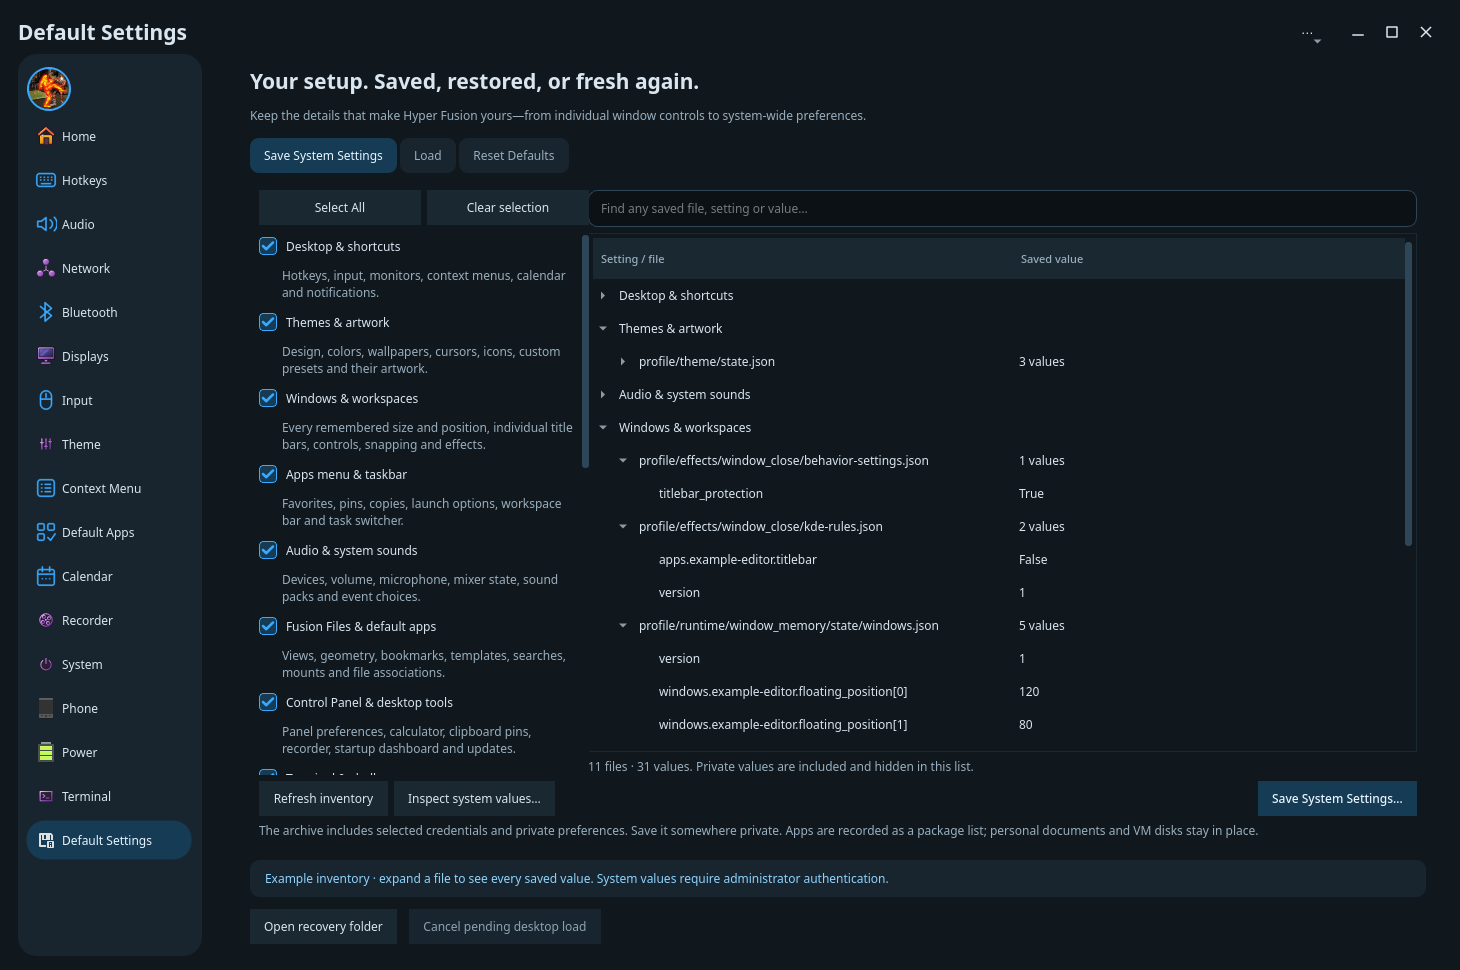
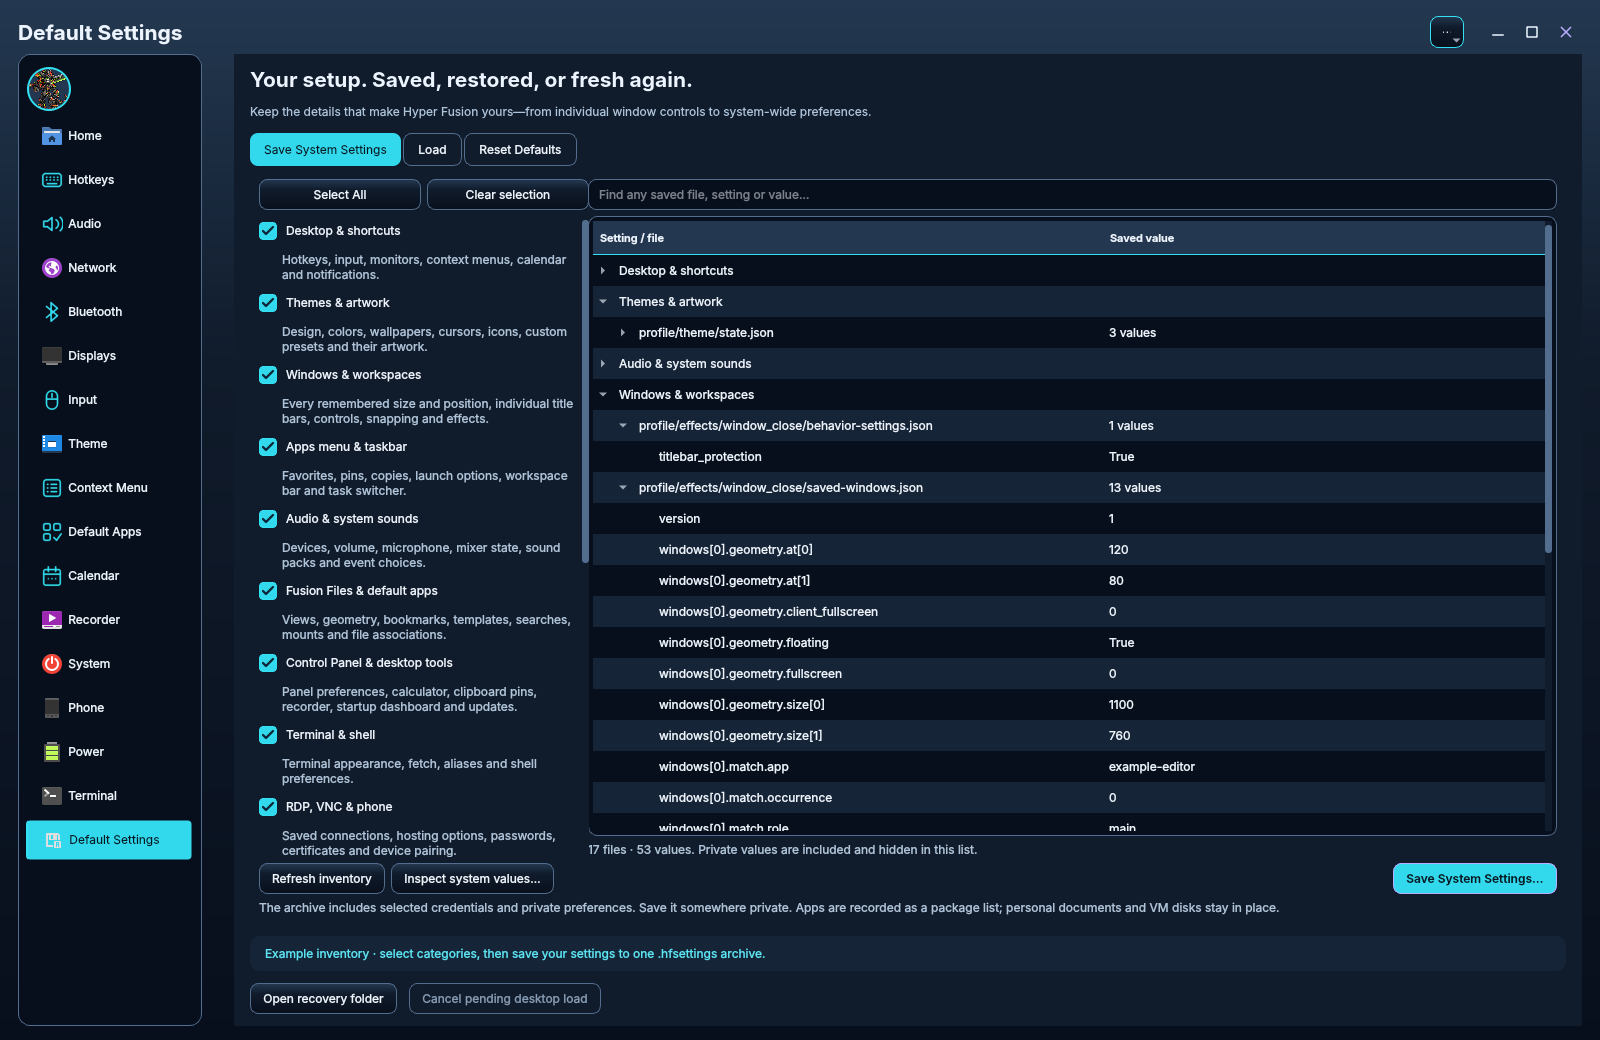
Showcase Default Settings with Save Load and Reset screenshots
Add a README showcase and gallery with native Polaris captures using example settings. Expand the settings guide with selective restore steps, all category coverage, the original-baseline requirement and explicit headless versus end-to-end verification status.

diff --git a/docs/DEFAULT_SETTINGS.md b/docs/DEFAULT_SETTINGS.md
@@ -3,17 +3,28 @@
 **Fusion Settings → Default Settings** is the last item in the navigation sidebar.
 It brings **Save System Settings**, **Load**, and **Reset Defaults** together.
 
-![Default Settings with category selection and an expanded example inventory](screenshots/default-settings.png)
+[README showcase](../README.md#default-settings) · [Desktop gallery](GALLERY.md#default-settings)
 
-The screenshot uses example settings. The real inventory reads the current account;
-administrator-protected values are read when you choose **Inspect system values**
-or save those categories.
+The screenshots below show the actual native Qt interface in **Polaris**, captured
+headlessly with example settings in an isolated account environment. No Load,
+Reset, package installation or system changes were performed for these captures.
+Click a picture to see it at full resolution.
 
-## Save and Load
+## Save System Settings
 
-Both pages have category checkboxes, **Select All**, and **Clear selection**.
-Expand a file to inspect its values, or search for a setting, filename or value.
-Private values are included in the archive but hidden in the list.
+**Choose what to keep.** Save and Load both have category checkboxes,
+**Select All**, and **Clear selection**. Expand a file to inspect its values,
+or search for a setting, filename or value. Private values are included in the
+archive but hidden in the list.
+
+[![Save System Settings with category checkboxes and an expanded inventory of remembered window geometry](screenshots/default-settings.png)](screenshots/default-settings.png)
+
+The real inventory reads the current account. **Refresh inventory** lists selected
+desktop preferences; **Inspect system values** also reads administrator-protected
+categories after authentication. **Save System Settings** reads every selected
+category again and writes the archive to the location you choose.
+
+### The 16 categories
 
 | Category | Contents |
 | --- | --- |
@@ -45,6 +56,19 @@ terminal. Existing packages are not silently downgraded; version differences are
 recorded. New dependencies required by available versions can remain. Unavailable
 packages or dependency conflicts stop the operation and retain its recovery report.
 Standalone downloaded applications are not converted into Pacman packages.
+
+## Load
+
+**Choose archive**, then check the categories you want to restore. Only categories
+present in that archive are available. Unchecked categories retain their current
+settings. When **Installed applications** is selected, **Review package changes**
+lists planned installations, removals and version differences.
+
+[![Load with Themes and artwork, Windows and workspaces, and Audio and system sounds selected](screenshots/default-settings-load.png)](screenshots/default-settings-load.png)
+
+*This example selects themes, individual windows and audio. The other categories
+remain unchecked. The picture shows selection and inventory, without running a
+restore.*
 
 ## Applying changes
 
@@ -88,11 +112,42 @@ Save and selective Load remain available. Fresh foreground Setup records the
 baseline; the ISO installer records it after its GRUB, account, driver and package
 steps are complete. Existing finished ISOs are not modified by this feature.
 
+[![Reset Defaults showing the missing original system baseline and disabled reset action](screenshots/default-settings-reset.png)](screenshots/default-settings-reset.png)
+
+*The missing-baseline state shown here is expected on older installations.
+The updated installer records the baseline for future installations; opening this
+page does not redefine personal settings as factory defaults.*
+
 Settings recovery preserves the user accounts and their passwords, machine
 identity, disk contents, personal documents and VM disks. It is not a disk-image
 restore. The package planner refuses to remove required desktop/boot packages.
 
-## Implementation and verification
+## Verification status
+
+Recorded for the settings implementation in **0.0.0.320-alpha**, November 24, 2026.
+Headless coverage does **not** establish that every setting has been restored and
+verified in a complete installed desktop.
+
+| Check | Evidence |
+| --- | --- |
+| Settings archives, UI and installer lifecycle | **35 passing tests** cover selection, validation, private-value display, queued activation, rollback, factory-baseline handling and related behavior. |
+| Window memory and controls | **79 passing tests** across the window-memory and window-controls suites, including individual title bars, window identity, geometry and IPC failure handling. |
+| Administrator helper | The real file capture/restore worker passed in a disposable user/mount namespace. Its service-reload command was stubbed; the host system was unchanged. |
+| Current desktop inventory | A read-only snapshot of the running desktop passed archive and compositor-configuration validation. It was not loaded onto the host. |
+| Still awaiting end-to-end verification | A complete factory reset and reboot on a fresh VM, actual Pacman/Yay installation and removal, a successful GRUB restore followed by boot, and hardware CPU-governor changes. |
+
+Checks use temporary homes and system roots, an offscreen Qt window, and isolated
+fixtures. The maintainer's desktop was never reset. The screenshots illustrate
+the interface and are not evidence of a completed reset or package restore.
+
+```sh
+python3 -m unittest discover -s tests -p 'test_settings*.py' -v
+python3 tests/check_settings_profiles_root.py
+python3 -m unittest discover -s config/hypr/runtime/window_memory -p 'test_*.py'
+python3 -m unittest discover -s config/hypr/effects/window_close -p 'test_*.py'
+```
+
+## Implementation
 
 - `config/hypr/settings_profiles/catalog.py`: one ownership registry for inventory,
   export, import and reset, including every updater-declared preference.
@@ -103,15 +158,3 @@ restore. The package planner refuses to remove required desktop/boot packages.
 - `windows.py`, `audio.py`: live state and stable identity handling.
 - `page.py`: native Qt page, background operations and searchable value inventory.
 - `installer/settings_factory.py`: first-install baseline integration.
-
-Checks use temporary homes and system roots, an offscreen Qt window, and the real
-privileged worker inside a disposable user/mount namespace. They do not reset the
-maintainer's desktop or install/remove host packages. A full physical-machine
-factory reset and network/AUR installation are not claimed as tested.
-
-```sh
-python3 -m unittest discover -s tests -p 'test_settings_profiles*.py' -v
-python3 tests/check_settings_profiles_root.py
-python3 -m unittest discover -s config/hypr/runtime/window_memory -p 'test_*.py'
-python3 -m unittest discover -s config/hypr/effects/window_close -p 'test_*.py'
-```

diff --git a/README.md b/README.md
@@ -14,6 +14,7 @@
   <a href="#recent-desktop-updates">Recent updates</a> ·
   <a href="#fusion-files">Fusion Files</a> ·
   <a href="#software-made-for-hyper-fusion">Software</a> ·
+  <a href="#default-settings">Save &amp; restore settings</a> ·
   <a href="#four-window-modes">Window modes</a> ·
   <a href="#altf9-screen-recording">Recording</a> ·
   <a href="#copy-cut-and-move-with-fusion-files">File engine</a> ·
@@ -32,7 +33,7 @@ The November 22–24, 2026 updates bring more everyday settings into the desktop
 
 | Area | What's new |
 | --- | --- |
-| **Default Settings** | The last Fusion Settings page offers **Save System Settings**, **Load**, and **Reset Defaults**, with category checkboxes, **Select All**, a searchable value inventory and automatic recovery. Includes individual window geometry/title bars, sound preferences, Pacman/AUR package lists, CPU policy, GRUB and system settings. Full reset requires the original system baseline recorded by new installations. [Guide and screenshot →](docs/DEFAULT_SETTINGS.md) |
+| **Default Settings** | The last Fusion Settings page offers **Save System Settings**, **Load**, and **Reset Defaults**, with category checkboxes, **Select All**, a searchable value inventory and automatic recovery. Includes individual window geometry/title bars, sound preferences, Pacman/AUR package lists, CPU policy, GRUB and system settings. Full reset requires the original system baseline recorded by new installations. [Explore the three tabs →](#default-settings) |
 | **Reachable title bars** | Protection is enabled by default under **Theme → Window effects → Window Behavior**. After dragging, a title bar obscured by Waybar or the screen edge moves smoothly back within reach. The saved off switch keeps its choice across logins and updates. |
 | **Audio organization** | **Audio → Devices** contains the device controls and application mixer. **Audio → System Audio** contains the sound packs, previews and event choices previously under Theme. Existing sound preferences are preserved. |
 | **Software catalog** | **Control Panel → Software** now has a category tree, app cards, descriptions and six featured banners. Pacman is selected by default, with optional Yay/Paru search and current Linux downloads for Echo, Linux Studio, XMusic and Xetal Video Editor. [Explore the new Software page →](#software-made-for-hyper-fusion) |
@@ -448,6 +449,30 @@ Choose frame rate, quality, encoding, desktop/microphone/no audio, the filename 
 **Super+D** opens or hides the four-window Welcome dashboard: system information, Matrix rain, live **fusion-check** results and six interactive project cubes. Plugin failures appear first with a red cross and their diagnostic details; successful checks have green ticks. The taskbar groups it as **Welcome**, without four duplicate app icons.
 
 Fresh installs always enable Welcome so plugin failures are visible at the first login. Uncheck **Show this dashboard at login** right on the dashboard to disable all four startup windows. Re-enable it in **Control Panel → Startup Applications**; Super+D continues to work manually. **Num Lock starts on by default**, with a matching switch in Startup Applications and Fusion Settings → Input.
+
+## Default Settings
+
+**Your setup, down to the individual window.** Open **Fusion Settings → Default Settings**, the last item in the sidebar, to save your configuration in one `.hfsettings` archive. Choose among **16 categories**, use **Select All**, and expand or search the inventory to see the values included.
+
+[![Default Settings in Polaris, with category checkboxes, Select All and expanded window settings](docs/screenshots/default-settings.png)](docs/screenshots/default-settings.png)
+
+| Tab | What it does |
+| --- | --- |
+| **Save System Settings** | Select the categories to export and inspect their settings. Administrator-protected values can be inspected with **Inspect system values**; Save reads every selected category again. |
+| **Load** | Open an archive and choose which categories to restore. Review package changes before including installed applications. A recovery archive is created before changes begin. |
+| **Reset Defaults** | Restore every category using the installer's desktop defaults and the original system/package baseline. Older installations without that baseline show an explanation and keep full Reset disabled. |
+
+**The details come with you:** remembered window sizes and positions, individual KDE title bars, effects, workspaces, themes and artwork, sounds, hotkeys, taskbar pins, Fusion Files preferences, remote connections and KVM/Proton settings. System categories include CPU power policy, services, networking, firewall rules, GRUB themes and Pacman/AUR package inventories.
+
+| Load only the categories you choose | Reset availability explained |
+| :---: | :---: |
+| [![Load tab with themes, windows and audio selected while other categories remain unchecked](docs/screenshots/default-settings-load.png)](docs/screenshots/default-settings-load.png) | [![Reset Defaults explaining that an older installation lacks its original system baseline](docs/screenshots/default-settings-reset.png)](docs/screenshots/default-settings-reset.png) |
+
+Desktop restores activate at the **next normal sign-in**; system and boot changes may require a restart. Privileged operations request fresh administrator authentication. Installed apps are recorded as package lists and use available packages when restored; personal documents and VM disks stay in place.
+
+*Actual native Qt interface in Polaris, captured headlessly with example settings. The Load image illustrates selective restoration; the Reset image shows the missing-baseline state. No settings were applied to create these pictures.*
+
+Headless archive, UI, window and isolated administrator-helper checks passed. A full VM factory reset and reboot, real package installation/removal and hardware governor changes still need end-to-end verification. [Complete guide, category list and test coverage →](docs/DEFAULT_SETTINGS.md) · [Gallery →](docs/GALLERY.md#default-settings)
 
 ## Compiz spirit. Hyprland desktop.
 

diff --git a/docs/GALLERY.md b/docs/GALLERY.md
@@ -1,7 +1,7 @@
 # Hyper Fusion · Desktop gallery
 
 A tour of the real Xetal interface. Click any picture for its full resolution.
-The Fusion Files showcase uses the native application with a sample drive inventory in an isolated profile. The KDE-mode screenshots were supplied by the author from the live desktop. The Midnight Transit showcase uses real applications and compositor effects captured headlessly with a disposable profile. Some applications shown in Favorites are installed separately; transfer previews use sample jobs.
+The Fusion Files showcase uses the native application with a sample drive inventory in an isolated profile. Default Settings uses the real Qt window with example settings in an isolated account environment. The KDE-mode screenshots were supplied by the author from the live desktop. The Midnight Transit showcase uses real applications and compositor effects captured headlessly with a disposable profile. Some applications shown in Favorites are installed separately; transfer previews use sample jobs.
 
 [Back to the README](../README.md) · [Watch the desktop video on YouTube](https://youtu.be/z3_uTzZglvg)
 
@@ -92,6 +92,33 @@ and the current Linux downloads. Installed apps can be opened from here.
 local catalog. App availability and Open/Install actions depend on your system.*
 
 [README showcase →](../README.md#software-made-for-hyper-fusion) · [Software guide →](CONTROL-PANEL.md#software-catalog)
+
+## Default Settings
+
+**Keep the details that make the desktop yours.** The last Fusion Settings sidebar
+item brings Save, Load and Reset together. Sixteen categories cover the desktop,
+individual window geometry and controls, apps and system configuration.
+
+[![Save System Settings in Polaris with category selection and an expanded value inventory](screenshots/default-settings.png)](screenshots/default-settings.png)
+
+**Select All** includes every category. Expand a file or search to inspect its
+values. Administrator-protected settings have an explicit inspection action;
+private values stay hidden in the list while remaining part of the archive.
+
+| Choose what to load | Understand reset availability |
+| :---: | :---: |
+| [![Load with only themes, windows and audio selected](screenshots/default-settings-load.png)](screenshots/default-settings-load.png) | [![Reset Defaults explaining the original system baseline requirement](screenshots/default-settings-reset.png)](screenshots/default-settings-reset.png) |
+
+Load can restore selected categories while preserving the rest. Full Reset
+requires the original system/package baseline; the screenshot shows the disabled
+state on an older installation without that record. The updated installer records
+it for future installations.
+
+*Unedited native Qt captures in Polaris with example settings, taken headlessly
+on November 24, 2026. No settings were applied for these pictures. End-to-end
+factory-reset, boot, real package and hardware checks remain outstanding.*
+
+[README showcase →](../README.md#default-settings) · [Categories, recovery and verification →](DEFAULT_SETTINGS.md)
 
 ## KDE mode and built-in recording
 
